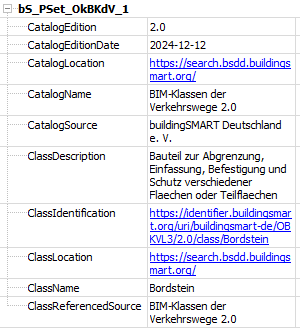
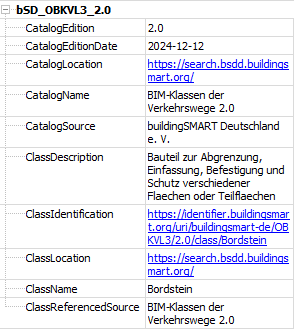
update README PropertySet Image and Name schema

diff --git a/README.md b/README.md
@@ -16,7 +16,7 @@ The IfcClassification with IfcClassificationReference then looks like this:
 
 ![IfcClassification from IfcPropertySet](img/IfcClassification.png)
 
-The PropertySet names can be chosen from a list of all IfcPropertySets in the file or entered as a string. From the IfcClassificationReference, a IfcPropertySet name can be generated from the buildingSMART URI of the element, if set. The schema is 'bSD_catalog_code_catalog_version'. Otherwise it is generated as 'bSD_class_name' or the user enters a name. 
+The PropertySet names can be chosen from a list of all IfcPropertySets in the file or entered as a string. From the IfcClassificationReference, a IfcPropertySet name can be generated from the buildingSMART URI of the element, if set. The schema is 'bSD_catalogCode_catalogVersion'. Otherwise it is generated as 'bSD_className' or the user enters a name. 
 A new file is created as result of the conversion.
 
 ## Attributes
